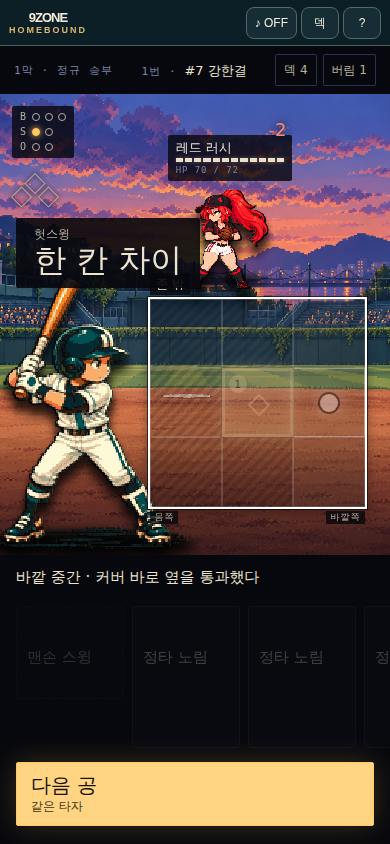
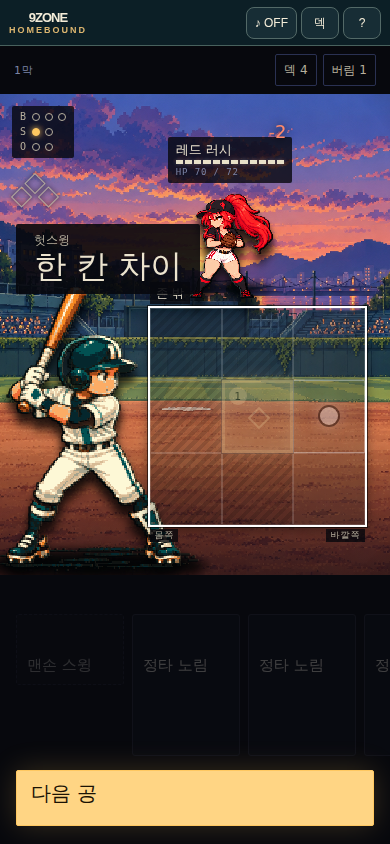
feat(ui): ballpark screen drops text the board already shows
User: no batter name, keep the pitcher's; cut text like that. Removed the batter number/name, the
node name, the in-scene whisper (same as the coach line), the card faces' restated coverage, the
basic-swing blurb, the card/zone on the swing button, the result reason sentence and the next
button's second line. Kept pitcher name/HP, count, runners, out-of-zone share, the coach line,
each card's extra effect, the damage multiplier and the verdict.

Claude-Session: https://claude.ai/code/session_01T99hSSjCnNhKyvNdt23UvM

diff --git a/src/duel/BallparkBattle.jsx b/src/duel/BallparkBattle.jsx
@@ -12,12 +12,14 @@ import './ballpark.css';
 const LANDED=new Set(['impact','slowmo','release','settle']);
 const GOOD=new Set(['hit','extra','homer','jammed','lucky','sacrifice','draw','survive']);
 
+/* the glyph already draws the coverage; the face keeps only what it adds (정확 적중 HP +50% …) */
+const effect=def=>(def.gives||[]).filter(g=>!/커버$/.test(g)).slice(0,1).join('');
 const isSkill=entry=>CARDS[entry?.kind]?.type==='skill';
 const CardGlyph=({zones})=><span className="bp-glyph" aria-hidden="true">{Array.from({length:9},(_,z)=><i key={z} className={zones?.includes(z)?'on':''}/>)}</span>;
 
 export default function BallparkBattle({
   s,hand,selected,swingStack,choice,locked=false,
-  pitcher,batter,label,pitcherArt,batterArt,
+  pitcher,label,pitcherArt,batterArt,
   fxStage=null,shot=null,impactAt=0,playToken=0,onNext=null,nextLabel='',
   onSelect,onAim,onStack,onSwing,onTake,onDetail,onPile,
 }){
@@ -84,9 +86,9 @@ export default function BallparkBattle({
   const mainName=selected==='basic'?'맨손 스윙':mainEntry?CARDS[mainEntry.kind].name:null;
   const rate=choice?.damageRate!=null?'피해 ×'+Number(choice.damageRate).toFixed(2).replace(/0$/,''):'';
   const verb=mainIsSkill?'준비한다':'휘두른다';
-  const verbSub=!selected?'카드를 고른다':mainIsSkill?mainName+' · 준비 '+prepLeft+'회 남음'
-    :[mainName+(stack.length?' 외 '+stack.length+'장':''),ZONE_WORDS[b.aimZone]||'',rate].filter(Boolean).join(' · ');
-  const coach=!deciding&&shot?(showVerdict?shot.detail||'':''):choice?.problem||(armed?byId(armed)&&CARDS[byId(armed).entry.kind].name+' — 덮을 칸을 누른다.':lines.coach);
+  /* only what the board does not already show: the HP multiplier, or the prepare uses left */
+  const verbSub=!selected?'':mainIsSkill?prepLeft+'회 남음':rate;
+  const coach=!deciding?'':choice?.problem||(armed?'덮을 칸을 누른다':lines.coach);
   const tokens=judged?[r.coverage?.length?{z:r.aimZone,n:1}:null,...(r.supportZones||[]).map((z,i)=>({z,n:i+2}))].filter(Boolean)
     :[selected&&!mainIsSkill?{z:b.aimZone,n:1}:null,...stack.map((x,i)=>({z:x.aimZone,n:i+2}))].filter(Boolean);
   const good=GOOD.has(shot?.kind);
@@ -98,7 +100,7 @@ export default function BallparkBattle({
       data-card-kind={x.entry.kind} disabled={!deciding} onClick={()=>pickSwing(x.id)}>
       <CardGlyph zones={x.preview?.coverage}/>
       <strong>{def.name}{x.entry.plus&&<sup>+</sup>}</strong>
-      <span>{problem||(def.gives||[]).slice(0,2).join(' · ')}</span>
+      {(problem||effect(def))&&<span>{problem||effect(def)}</span>}
       {selected===x.id&&<b className="bp-order">1</b>}{inStack>=0&&<b className="bp-order">{inStack+2}</b>}
     </button>;
   };
@@ -106,7 +108,6 @@ export default function BallparkBattle({
   return <main ref={rootRef} className={'bp-battle'+(deciding?'':' resolving')+(inFx?' fx-'+fxStage:'')} aria-label="타석">
     <div className="bp-bar">
       <span>{label}</span>
-      <span>{b.batterIndex+1}번 · <b>#{batter?.number} {batter?.name}</b></span>
       <span className="bp-piles"><button type="button" onClick={()=>onPile?.('draw')}>덱 {b.draw?.length??0}</button><button type="button" onClick={()=>onPile?.('discard')}>버림 {b.discard?.length??0}</button></span>
     </div>
 
@@ -120,7 +121,6 @@ export default function BallparkBattle({
         {damage>0&&<b className="bp-damage" key={'d'+playToken}>-{damage}</b>}
         <small aria-hidden="true">HP {judged&&!landed?(pitcher?.hp||0)+(pitcher?.lastDamage||0):pitcher?.hp} / {pitcher?.maxHp}</small>
       </div>
-      {deciding&&lines.whisper&&<p className="bp-whisper">{lines.whisper}</p>}
       {showVerdict&&<div className={'bp-verdict'+(good?' good':'')} key={'v'+playToken+(shot.title||'')} role="status">{r?.label&&judged&&<small>{r.label}</small>}<strong>{shot.title}</strong></div>}
       {judged&&inFx&&!landed&&<i className="bp-flight" ref={flightRef} key={'f'+playToken} aria-hidden="true"/>}
       <div className="bp-batter" aria-hidden="true">{batterArt}</div>
@@ -153,7 +153,7 @@ export default function BallparkBattle({
 
     <div className="bp-hand" aria-label="손패">
       <button type="button" className={'bp-card basic'+(selected==='basic'?' main':'')} aria-pressed={selected==='basic'} disabled={!deciding} onClick={()=>pickSwing('basic')}>
-        <CardGlyph zones={[b.aimZone]}/><strong>맨손 스윙</strong><span>카드 없이 한 칸</span>{selected==='basic'&&<b className="bp-order">1</b>}
+        <CardGlyph zones={[b.aimZone]}/><strong>맨손 스윙</strong>{selected==='basic'&&<b className="bp-order">1</b>}
       </button>
       {swingCards.map(cardButton)}
       {prepCards.map(x=>{const def=CARDS[x.entry.kind],problem=x.preview?.problem;
@@ -164,10 +164,10 @@ export default function BallparkBattle({
     </div>
 
     {onNext&&!deciding&&s.phase!=='battle'?<div className="bp-verbs next">
-      <button type="button" className="bp-verb go" data-testid="bp-next" disabled={inFx} onClick={onNext}>{nextLabel.split(' · ')[0]}<small>{nextLabel.split(' · ').slice(1).join(' · ')}</small></button>
+      <button type="button" className="bp-verb go" data-testid="bp-next" disabled={inFx} onClick={onNext}>{nextLabel}</button>
     </div>:<div className="bp-verbs">
       <button type="button" className="bp-verb go" data-testid="bp-swing" disabled={!deciding||!selected||!!choice?.problem} onClick={onSwing}>
-        {verb}<small>{verbSub}</small>
+        {verb}{verbSub&&<small>{verbSub}</small>}
       </button>
       <button type="button" className="bp-verb wait" data-testid="bp-take" disabled={!deciding} onClick={onTake}>지켜본다</button>
       {mainEntry&&deciding&&<button type="button" className="bp-info" aria-label={mainName+' 카드 설명'} onClick={()=>onDetail?.(mainEntry)}>ⓘ</button>}

diff --git a/src/duel/App.jsx b/src/duel/App.jsx
@@ -940,12 +940,12 @@ export default function Duel(){
     {screen==='cinema'?<CinemaLab sound={sound} onBack={()=>setScreen('menu')}/>
     :screen==='menu'?<main key="screen-title" className="duel-title stadium"><div className="title-copy"><h1>내가 기다릴 공.<br/><em>내가 만드는 타격.</em></h1><section className="title-main" aria-label="메인런"><span className="title-main-tag">메인 런</span><h2>투수를 끌어내려라.</h2><p>투수 HP를 0으로 만들면 강판입니다. 갈림길을 골라 3막을 돌파하세요. 막이 올라갈수록 상대가 두꺼워지고 쓰는 코스가 늘어납니다.</p><div className="title-main-actions"><button className="primary v10-entry" aria-label="MAIN RUN 시작 · 투수 HP" onClick={()=>freshV10()}>새 런 시작</button>{initial.v10&&<button className="v10-entry" aria-label="MAIN RUN 이어하기" onClick={()=>{persist(initial.v10);setScreen('run')}}>이어하기</button>}</div></section><section className="title-tutorial" aria-label="튜토리얼"><span className="title-tutorial-label">튜토리얼 · 규칙 익히기</span><p>아래 네 덱은 규칙만 익히는 모드입니다. 연출을 줄여 빠르게 돌아갑니다.</p><div className="build-picker v9-build-picker" aria-label="런 방식">{Object.entries(BUILDS).map(([key,d])=><button key={key} aria-pressed={build===key} onClick={()=>setBuild(key)}><span className="build-mode">{key===DECKBUILDER_BUILD?'튜토리얼 · 덱 만들기':'튜토리얼 · 완성형 체험'}</span><strong>{d.name}</strong><small>{d.description}</small></button>)}</div><label className="trial-seed">비교용 시드 <input aria-label="비교용 시드" type="number" min="0" max="4294967295" value={trialSeed} onChange={e=>setTrialSeed(e.target.value)}/><span>같은 시드 = 같은 첫 투구 · 이후 카운트에 따라 변화</span></label><div className="title-actions"><button onClick={()=>s&&!['won','lost'].includes(s.phase)?setModal('new'):fresh()}>튜토리얼 시작</button>{s&&<button onClick={()=>setScreen('run')}>이어하기</button>}{typeof window!=='undefined'&&window.location.pathname.includes('/preview/')&&<button className="cinema-entry" onClick={()=>setScreen('cinema')}>✦ 연출 검수실</button>}</div></section></div><div className="title-actor"><Sprite who="batter"/></div></main>
 :showBattle&&parkOn&&isV10?<BallparkBattle key="screen-bp-battle" s={s} hand={hand} selected={selected} swingStack={swingStack} choice={choice} locked={!!stackResolve}
-      label={v10Node?.act+'막 · '+(v10Node?.name||'승부')} pitcher={s.pitcher} batter={currentBatter(s)}
+      label={v10Node?.act+'막'} pitcher={s.pitcher}
       pitcherArt={pitcherAtlas?<PitcherAtlasSprite atlas={pitcherAtlas} stage={fxStage} shot={fxPresentation} playToken={s.stats.pitches}/>:<Sprite who="pitcher" stage={fxStage} shot={fxPresentation} golden variant={pitcherForm} playToken={s.stats.pitches}/>}
       batterArt={<Sprite who="batter" stage={fxStage} shot={fxPresentation} golden playToken={s.stats.pitches} syncRedRush={redRushEncounter}/>}
       fxStage={fxStage} shot={fxPresentation||resultPresentation} impactAt={fxImpactAt} playToken={s.stats.pitches}
       onNext={s.phase==='pitch'?()=>act(doNextPitch):s.phase==='between'?()=>act(doNextBatter):null}
-      nextLabel={s.phase==='pitch'?'다음 공 · 같은 타자':s.phase==='between'?'다음 타자 · '+((b.batterIndex+1)%9+1)+'번 '+LINEUP[(b.batterIndex+1)%LINEUP.length].name:''}
+      nextLabel={s.phase==='pitch'?'다음 공':s.phase==='between'?'다음 타자':''}
       onSelect={setSelected} onStack={setSwingStack} onAim={z=>{if(!lock.current)persist(setAimZone(current.current,z));}}
       onSwing={()=>act(doPlay,true,choice?.stackPlan)} onTake={()=>act(doTake,true)}
       onDetail={e=>setCardDetail(cardDetailOf(e.kind,e.plus,null))} onPile={w=>setModal(w)}/>

diff --git a/tests/ballpark-battle.test.jsx b/tests/ballpark-battle.test.jsx
@@ -7,7 +7,7 @@ import fs from 'node:fs';
 import path from 'node:path';
 import Duel from '../src/duel/App.jsx';
 import {createV10Duel,enterV10Node,saveV10Duel,readV10Duel} from '../src/duel/engine.js';
-import {BUILDS,CARDS} from '../src/duel/cards.js';
+import {BUILDS,CARDS,LINEUP} from '../src/duel/cards.js';
 import {intentLines,hpTicks} from '../src/duel/ballpark-copy.js';
 
 // V13 BALLPARK — the ballpark battle screen (docs/design/v13/BALLPARK.md), opt-in with ?park=1.
@@ -60,7 +60,7 @@ describe('V13 BALLPARK battle',()=>{
     fireEvent.click(cells()[5]);
     expect(readV10Duel(localStorage).battle.aimZone).toBe(5);
     expect(swingBtn().disabled).toBe(false);
-    expect(swingBtn().textContent).toContain('바깥쪽');
+    expect(swingBtn().textContent).toMatch(/^휘두른다피해 ×/);
     expect(cells()[5].classList.contains('aim')).toBe(true);
   });
 
@@ -73,7 +73,7 @@ describe('V13 BALLPARK battle',()=>{
     expect(cards()[1].classList.contains('support')).toBe(true);
     expect([...cells()[2].querySelectorAll('.bp-token')].map(t=>t.textContent)).toEqual(['2']);
     expect(readV10Duel(localStorage).battle.aimZone).toBe(4);
-    expect(swingBtn().textContent).toContain('외 1장');
+    expect(swingBtn().textContent).toMatch(/피해 ×0\.\d/);
   });
 
   it('tapping the main card again clears the board',()=>{
@@ -104,6 +104,18 @@ describe('V13 BALLPARK battle',()=>{
   });
 });
 
+describe('V13 BALLPARK lean text',()=>{
+  it('shows no batter name, no whisper, no restated coverage; the pitcher keeps his name',()=>{
+    const s=begin();
+    const text=document.querySelector('.bp-battle').textContent;
+    for(const p of LINEUP)expect(text).not.toContain(p.name);
+    expect(document.querySelector('.bp-whisper')).toBeNull();
+    expect(document.querySelector('.bp-ptag').textContent).toContain(s.pitcher.name);
+    for(const span of document.querySelectorAll('.bp-card span'))expect(span.textContent).not.toMatch(/커버$/);
+    expect(swingBtn().textContent).toBe('휘두른다');
+  });
+});
+
 describe('V13 BALLPARK BP-2 pitch in the scene',()=>{
   afterEach(()=>{vi.useRealTimers()});
   it('plays the pitch on the same screen: verdict word, the real ball on the zone, one button on',()=>{
@@ -119,6 +131,7 @@ describe('V13 BALLPARK BP-2 pitch in the scene',()=>{
     if(r.zone<9)expect(cells()[r.zone].classList.contains('actual')).toBe(true);
     else expect(document.querySelector('.bp-ball.actual')).not.toBeNull();
     const next=screen.getByTestId('bp-next');
+    expect(['다음 공','다음 타자']).toContain(next.textContent);
     expect(next.disabled).toBe(false);
     expect(document.querySelector('[data-testid=bp-swing]')).toBeNull();
     fireEvent.click(next);

diff --git a/docs/design/v13/BALLPARK.md b/docs/design/v13/BALLPARK.md
@@ -80,3 +80,11 @@
 - 캡처: `bp2-{390x844,844x390,1440x900}-result.png`, `bp2-390x844-impact.png`.
 - 남음: 볼카운트 불빛은 착지 전에 이미 바뀐다(엔진이 결과를 먼저 저장). 옛 결과 화면의 상세(이유 사슬 `ResultChain`, 첫 두 타석 해설)는 아직 없다.
 - 다음: BP-3 지도.
+
+## 글자 덜기 · 2026-09-25
+
+사용자: "타자 이름은 필요 없어, 투수 이름은 남기고 이런 것처럼 불필요한 텍스트 날려줘." 기준 = 판에 이미 보이는 걸 글로 되풀이하지 않는다.
+
+- 뺌: 타자 번호·이름(상단 줄, 다음 타자 버튼), 상단의 구장 이름("정규 승부" → "1막"만), 장면 속 속삭임(아래 코치 줄과 같은 말), 카드의 "N존 커버"(그림이 이미 보여줌), 맨손 스윙 설명, 휘두르기 버튼의 카드 이름·코스(판에 토큰으로 보임), 결과의 이유 문장(실제 공 위치가 판에 보임), 다음 버튼 보조줄("같은 타자").
+- 남김: 투수 이름·HP, 볼카운트, 주자, 존 밖 확률, 코치 한 줄(투수 버릇), 카드 이름과 추가 효과 한 줄("정확 적중 HP +50%"), 피해 배율, 판정(야구 판정 + 한 단어).
+- 테스트 +1(타자 이름·속삭임·커버 반복 없음, 투수 이름 있음).
